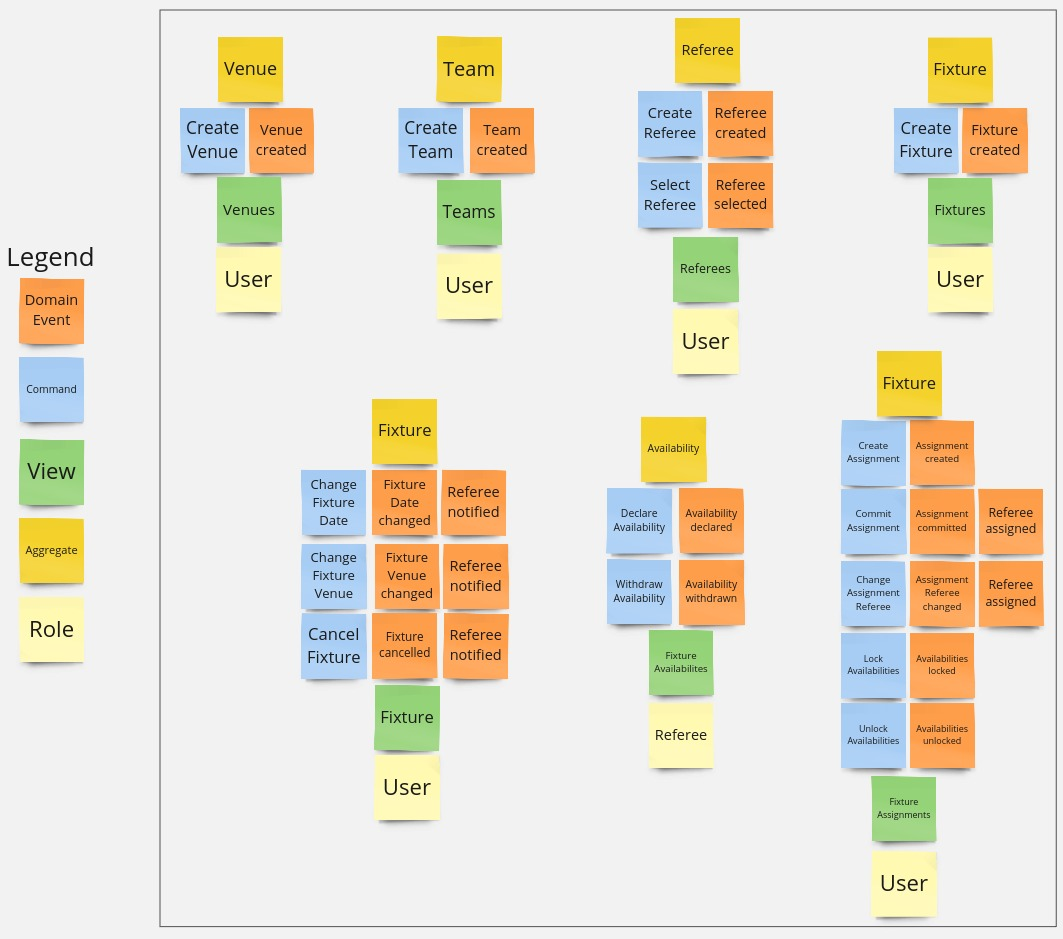
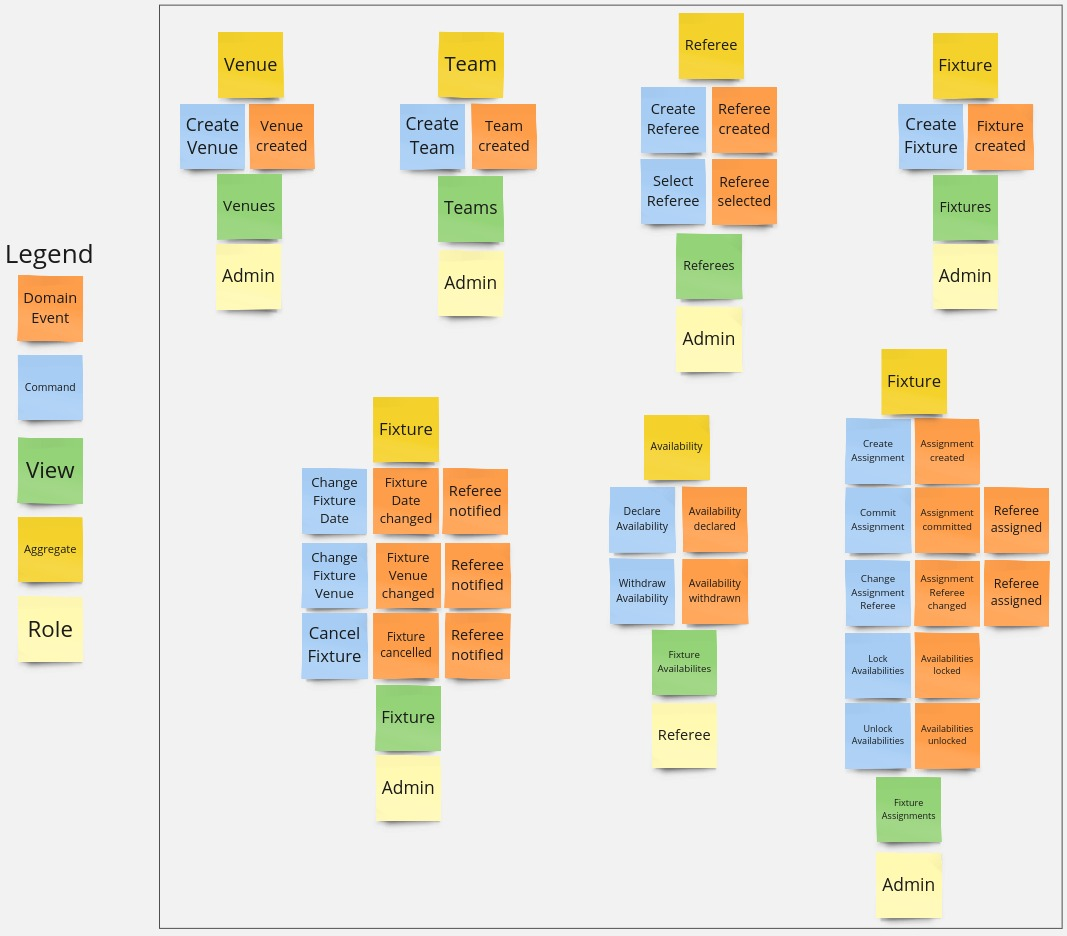
finalised Day1 and fixed some typos

diff --git a/reports/day1/README.md b/reports/day1/README.md
@@ -4,73 +4,69 @@ On Day 1 the focus is on explicitly stating my motivation, aims and objectives, 
 
 ## Motivation, Aims and Objectives
 
-In the following I clearly state my motivation, aims and objectives as they are important to understand to put the whole undertaking into a proper context that helps to understand certain decisions. 
+In the following I clearly state my motivation, aims and objectives as they are important to put the whole undertaking into a proper context that helps to understand certain decisions. 
 
-Very broadly speaking my most fundamental motivation underlying this undertaking is to simply get more experience in Rust. So far I have 6 months of industry experience in Rust at my time at Generation Lambda where I wrote a number of services such as simple REST services, a blockchain data extractor and a rewards payout tool for Cardano. With this project however, I want to look into a different direction: DDD and Microservices.
+Very broadly speaking my most fundamental motivation underlying this undertaking is to simply get more experience in Rust. So far I have 6 months of industry experience in Rust from my time at Generation Lambda where I wrote a number of services such as simple REST services, a blockchain data extractor and a rewards payout tool for Cardano. With this project however, I want to look into a different direction: DDD and Microservices. I have taught DDD and Microservices in my position as lecturer in Software Engineering to undergraduates and conducted Software Engineering seminars where students had to implement a project using DDD. However so far, I only had limited opportunity to explore DDD and Microservices in production, which should change now with this project. Yes, I am aware that this is not a proper industry setting, but its a good first step towards building up more experience.
 
-I have taught DDD and Microservices in my position as lecturer in Software Engineering to undergraduates and conducted Software Engineering seminars where students had to implement a project using DDD. However so far, I only had limited opportunity to explore DDD and Microservices in production: I have implemented a Volleyball referee management tool in Java using DDD following a monolithic approach, that was in production for a few years; I have implemented Service Oriented Architectures (SOA) in production but never got proper hands-on experience in implementing a proper Microservices Architecture - all of this should change now with this project. Yes, I am aware that this is not a proper industry setting, but its a good first step towards building up more experience.
-
-An important point here is to make that DDD is not a very hot topic in Rust, therefore Rust would definitely not be my first choice when having to implement a Domain using DDD and Microservices for production use - other ecosystems such as Java and C# have everything you need to do it much more easily with very mature frameworks and tools. In fact, I have around 10 years of industry experience in Java using JavaEE and Spring, which are frameworks that make implementation of (Micro)services using DDD rather easy.
-
-The point in using Rust is to put all these little challenges and learning opportunities into a box and grow from there, instead of relying on established languages and frameworks, which would make the whole undertaking rather boring.
+An important point here is to make that DDD is not a very hot topic in Rust, therefore Rust would definitely not be my first choice when having to implement a Domain using DDD and Microservices for production use - other ecosystems such as Java and C# have everything you need for it with very mature frameworks and tools. In fact, I have around 10 years of industry experience in Java using JavaEE and Spring, which are frameworks that make implementation of (Micro)services using DDD rather easy. The point in using Rust is to put all these little challenges and learning opportunities into a box and grow from there, instead of relying on established languages and frameworks, which would make the whole undertaking rather boring.
 
 Therefore this project pursues the following objectives:
 - Deepen my Rust experience.
-- Explore implementing tactical DDD in Rust - note that the focus is on Tactical, not Strategic DDD.
+- Explore implementing Tactical DDD in Rust - note that the focus is on Tactical, not Strategic DDD.
 - Explore implementing a Web UI via WASM in Rust.
 - Explore implementing Microservices in Rust. 
 
-My aim is to start with a monolith and then slice it into Microservices to avoid trying to do too many things at once, and overcomplicating things from the start. Also starting with a monolith is often the default and then slicing it out into Microservices is easier once the domain is properly established.
+My aim is to start with a Monolith and then slice it into Microservices to avoid trying to do too many things at once. Also, starting with a Monolith is often the default and then slicing it out into Microservices is easier once the domain is properly established.
 
-I want to make testing an important aspect of the whole project. I see automated tests as an essential part of every Software Engineering project and have to admit that I grew tired of bashing automated tests, something seen regularly on various social media channels. Writing no tests is as stupid as mindlessly writing tests just to cover your code as much as possible. With tests it is the same as with coding: you need to think and consider where tests bring a benefit and where they are just boilerplate/noise/liability. I am going to follow the well-known testing pyramid:
+I want to make testing an important aspect of the whole project. I see automated tests as an essential part of every Software Engineering project, however one has to be clever about it: writing no tests is as stupid as mindlessly writing tests just to cover your code as much as possible. With tests it is the same as with coding: you need to think and consider where tests bring a benefit and where they are just boilerplate/noise/liability. I am going to follow the well-known testing pyramid:
 - Unit tests only for complex domain and/or Controller logic.
 - Integration tests only for (complex) queries and for driving the implementation of the DB integration code.
-- I am going to try to rely more on E2E tests, and am curious how this is going to turn out. 
+- E2E tests for testing whole scenarios.
 
 ## Unknowns, open Questions and Hypotheses
 As in every such undertaking, a number of initial unknowns, open questions and hypotheses popped up in my head, which I brain-dumped here, to not lose keep track of them and to guide the whole undertaking.
 
-- How to interact with DB? Using sqlx or an ORM such as diesel or seaorm? 
-    - I tend towards sqlx as I have used diesel in the past and was not too impressed with it, as you run into limitations such as transaction handling and more complex queries pretty quickly when you do non-trivial things.
+- How to interact with DB? Using *sqlx* or an ORM such as *diesel* or *seaorm*? 
+    - I lean towards *sqlx* as I have used *diesel* in production and was not too impressed with it, as you run into limitations such as transaction handling and more complex queries pretty quickly when you do non-trivial things.
 - How to represent Entities, Value Objects, Aggregates, Domain Events (and how to broadcast them) and Repositories? 
-    - Aggrgate/Entity: probably is *mut* and methods implemented as *mut*.
+    - Aggregate/Entity: probably is *mut* and methods implemented as *mut*.
     - Value objects are immutable with immutable methods, returning copies.
 
 - An interesting challenge will be to update an Aggregate or Entity in the DB after some domain logic executed. A naive approach would be to update all fields and Entities/Value objects, but a more sophisticated approach could calculates a diff from the originally loaded version, but that is also more complex. Or could we follow a unit-of-work pattern implementation? How much effort and how difficult would that be in Rust?
 
-- How can we abstract Repositories without exposing the need for an sqlx Connection/Transaction object? We want to avoid passsing the sqlx connection to be able to write testable code. We could employ some form of per-thread global Connection/Transaction context. Or much simpler: instantiate the Repository in the REST handler using the Connection object but pass it as *dyn* to the Controller logic.
+- How can we abstract Repositories without exposing the need for an *sqlx* Connection/Transaction object? We want to avoid passing the *sqlx* connection to be able to write testable code. We could employ some form of per-thread global Connection/Transaction context. Or much simpler: instantiate the Repository in the REST handler using the Connection object but pass it as *dyn* to the Controller logic.
 
-- Should we use some form of dependency injection e.g. using https://docs.rs/shaku/latest/shaku/? 
+- Should we use some form of dependency injection e.g. using *shaku*? 
     - Given that Java / Spring relies heavily on dependency injection by declarative management via annotations, it would be interesting to see if this makes sense in Rust as well. 
-    - We might be able to declare transactional boundaries via our own Rust Attributes.
+    - We might be able to declare transactional boundaries via custom Rust Attributes.
     - However as nice as it sounds, given the fundamentally different nature of Rust, I doubt this is a viable direction to follow.
 
 - How do we deploy multiples of the same Microservices? 
-    - First thought is to use some reverse proxy, with first try going to be Nginx.
+    - Probably use a reverse proxy, such as Nginx.
 
-- How to best split into Microservices and how to communicate between them?
-    - The splitting depends heavily on the domain implementation - potentially splitting by Aggregates or even Entities. So we have to wait until these are clear and stable, which should be when the monolith implementation is finished.
-    - Fetching information shall be done by means of REST endpoints explosed by the respective service.
-    - Broadcasting and listening to Domain Events is done via Kafka. Build in idempotency to solve the problem of different transactional contexts between Kafka and postgres.
+- How to best split the initial Monolith into Microservices and how to communicate between them?
+    - The splitting depends heavily on the domain implementation - potentially splitting by Aggregates or even Entities. So we have to wait until these are clear and stable, which should be the case when the Monolith implementation is finished.
+    - Fetching information shall be done by means of REST endpoints exposed by the respective service.
+    - Broadcasting and listening to Domain Events is done via Kafka. Build in idempotency to solve the problem of different transactional contexts between Kafka and DB.
     - Use some form of log aggregation.
 
 ## Domain and Requirements
 
-### High-Level Domain Vision
+### High-Level Domain Description
 
-The idea is to implement a simple Volleyball referee management tool that allows for assigning of 1st and 2nd referees to Fixtures between two teams that are taking place at specific venues.
+The idea is to implement a simple Volleyball referee management tool that allows for assigning of 1st and 2nd referees to Fixtures between two Teams that are taking place at specific Venues.
 
-Referees declare their availabilty to Fixtures, and the admin is using these availabilities then to decide which referee to assign to which Fixture. Referees should also be able to withdraw availabilities but only until some time before the assignments are handed out. The admin should be able to lock availabilities, which has the consequence that referees are not able to declare or withdraw availabilities anymore, so that the admin can create assignments without concurrent changes to availabilities.
+Referees declare their availability to Fixtures, and the *Admin* is using these Availabilities then to decide which referee to assign to which Fixture. Referees should also be able to withdraw Availabilities but only until some limited time before the Assignments are handed out. The *Admin* should be able to lock Availabilities, which has the consequence that Referees are not able to declare or withdraw Availabilities anymore, so that the *Admin* can create assignments without concurrent changes to Availabilities.
 
-The assignment process should be a two-step one: first, the admin assigns referees which constitutes *staged* changes, that are not fixed yet. Then after the admin is happy with the assignments, they *commit* the assignments, making them fixed, nofifying the referees.
+The Assignment process should be a two-step one: first, the *Admin* assigns Referees which constitutes *staged* changes, that are not fixed yet. Then after the *Admin* is happy with the assignments, they *commit* the assignments, making them fixed, notifying the Referees.
 
-Fixtures can get cancelled as well as their time or venue changed, which requires some form of notification to the assigned referees.
+Fixtures can get cancelled, or their time or venue changed, which requires some form of notification to the assigned Referees or Referees that declared availability.
 
-It should be possible to replace assigned referees with other referees, with referees getting notifications accordingly. 
+It should be possible for the *Admin* to replace already assigned Referees with other Referees, with Referees getting notifications accordingly. 
 
-The tool should also allow the cration of referees, venues, teams and Fixtures. Note that in a proper industry-ready soultion this information is very likely coming from a different system that needs to be integrated, but for sake of simplicity, in this project we rely on a single data source.
+The tool should also allow the creation of Referees, Venues, Teams and Fixtures. Note that in a proper industry-ready solution this information is very likely coming from a different system that needs to be integrated, but for sake of simplicity, in this project we ignore this.
 
-Also in this tool there is no need for explicitly implementing *Users*, that is, no need for implementing any login functionality and/or roles. However the UI should allow to switch between the views of different referees.
+Also in this tool there is no need for explicitly implementing *Admins*, that is, no need for implementing any login functionality and/or roles. However the UI should allow to switch between the views of different Referees.
 
 ### Event Storming
 
@@ -80,54 +76,54 @@ I did a quick Event Storming to model the domain before fleshing out User Storie
 
 ### User Stories
 
-Yes, we shouldn't use *User* in User Stories and focus on more specific roles/personas, but given that there is no need for a login/user concept, we essentially have only 2 roles:
+We essentially have only 2 roles:
 
-1. *User* is the generic user that views the Web UI.
-2. *Referee* is the referee the generic user selected to work as.
+1. *Admin* is the generic user that views the Web UI, can create Referees, Teams, Venues, Fixtures and does the whole assignment process.
+2. *Referee* is the referee the Admin selected to work as, declares and withdraws Availabilities and gets notified in case of changes.
 
 #### Referee
 
-- **Create Referee.** As a User I want to be able to create new Referees, so that Referees can be managed.
-- **Get Referee by Id.** As a User I want to be able to get Referees by their Id, so that I can get information about them individually.
-- **Get all Referees.** As a User I want to get all Referees in the system, so that I can select the Referee I want to work as.
-- **Select Referee.** As a User I want to select the Referee I want to work with, so that I can declare and withdraw their availabilities.
+- **Create Referee.** As Admin I want to be able to create new Referees, so that Referees can be managed.
+- **Get Referee by Id.** As Admin I want to be able to get Referees by their Id, so that I can get information about them individually.
+- **Get all Referees.** As Admin I want to get all Referees in the system, so that I can select the Referee I want to work as.
+- **Select Referee.** As Admin I want to select the Referee I want to work with, so that I can declare and withdraw their availabilities.
 
 #### Team
 
-- **Create Team.** As a User I want to be able to create new Teams, so that I can use them to create Fixtures.
-- **Get Team by Id.** As a User I want to be able to get a Team by its Id, so that I can get information about it individually.
-- **Get all Teams.** As a User I want to be able get all Teams in the system, so that I can select Teams when creating Fixtures.
+- **Create Team.** As Admin I want to be able to create new Teams, so that I can use them to create Fixtures.
+- **Get Team by Id.** As Admin I want to be able to get a Team by its Id, so that I can get information about it individually.
+- **Get all Teams.** As Admin I want to be able get all Teams in the system, so that I can select Teams when creating Fixtures.
 
 #### Venue
 
-- **Create Venue.** As a User I want to be able to create new Venues, so that I can use them to create Fixtures.
-- **Get Venue by Id.** As a User I want to be able to get a Venue by its Id, so that I can get information about it individually.
-- **Get all Venues.** As a User I want to be able get all Venues in the system, so that I can select Venues when creating Fixtures.
+- **Create Venue.** As Admin I want to be able to create new Venues, so that I can use them to create Fixtures.
+- **Get Venue by Id.** As Admin I want to be able to get a Venue by its Id, so that I can get information about it individually.
+- **Get all Venues.** As Admin I want to be able get all Venues in the system, so that I can select Venues when creating Fixtures.
 
 #### Fixture
 
-- **Create Fixture.** As a User I want to be able to create new Fixtures, so that we have Fixtures in the System that reflect the scheduled real Fixtures.
-- **Get all Fixtures within time range.** As a User I want to be able to get all Fixtures within a time range, so that I can assign Referees to them.
-- **Get Fixture by Id.** As a User I want to be able to get a Fixture by its Id, so that I can get information about it individually.
-- **Change Date.** As a User I want to be able to change the date of a Fixture, so that the assigned Referees get notified.
-- **Change Venue.** As a User I want to be able to change the Venue of a Fixture, so that the assigned Referees get notified.
-- **Cancel Fixture.** As a User I want to be able to cancel a Fixture, so that the assigned Referees get notified.
+- **Create Fixture.** As Admin I want to be able to create new Fixtures, so that we have Fixtures in the System that reflect the scheduled real Fixtures.
+- **Get all Fixtures within time range.** As Admin I want to be able to get all Fixtures within a time range, so that I can assign Referees to them.
+- **Get Fixture by Id.** As Admin I want to be able to get a Fixture by its Id, so that I can get information about it individually.
+- **Change Date.** As Admin I want to be able to change the date of a Fixture, so that the assigned Referees get notified.
+- **Change Venue.** As Admin I want to be able to change the Venue of a Fixture, so that the assigned Referees get notified.
+- **Cancel Fixture.** As Admin I want to be able to cancel a Fixture, so that the assigned Referees get notified.
 
 #### Availability
 
-- **Declare Availability.** As a Referee I want to declare Availability to a given Fixture, so that the admin knows for which Fixture I am available and which not.
+- **Declare Availability.** As a Referee I want to declare Availability to a given Fixture, so that the Admin knows for which Fixture I am available and which not.
 - **Withdraw Availability.** As a Referee I want to be able to withdraw a previously declared Availability, so that I am flexible with declaring my Availabilities.
-- **Lock Availabilities.** As a User I want to lock Availabilities, so that Referees are not able to concurrently change them while I am working on Assignments.
-- **Unlock Availabilities.** As a User I want to unlock Availabilities after I have locked them, so that Referees can declare or withdraw their Availabilities again.
+- **Lock Availabilities.** As Admin I want to lock Availabilities, so that Referees are not able to concurrently change them while I am working on Assignments.
+- **Unlock Availabilities.** As Admin I want to unlock Availabilities after I have locked them, so that Referees can declare or withdraw their Availabilities again.
 
 #### Assignment
 
-- **Create Assignment.** As a User I want to create an Assignment, so that a Fixture has Referees.
-- **Commit Assignment.** As a User I want to commit an Assignment, so Referees are notifies of their assignment.
-- **Change Referee.** As a User I want to be able to change Referees of an Assignment, so that I have the flexibility in case of some changes.
+- **Create Assignment.** As Admin I want to create an Assignment, so that a Fixture has Referees.
+- **Commit Assignment.** As Admin I want to commit an Assignment, so Referees are notified of their assignment.
+- **Change Referee.** As Admin I want to be able to change Referees of an Assignment, so that I have the flexibility in case of some changes.
 
-### Domain Diagram
+### Domain Model Diagram
 
-Below I have added a Diagram of the Domain to show all Domain concepts and their relationships. Note that it is an initial design that serves only as starting point and might differ from the final implementation. The diagram was created using draw.io
+Below I have added a Diagram of the Domain Model to show all Domain concepts and their relationships. Note that it is an initial design that serves only as starting point and might differ from the final implementation. The diagram was created using draw.io
 
 ![Volleyball Referee Management Domain](referee_domain_rust_ddd.png "Volleyball Referee Management Domain")

diff --git a/README.md b/README.md
@@ -1,23 +1,23 @@
 # Exploring DDD and Microservices in Rust
 
-This repo explores the use of Rust for implementing DDD and Microservices on top of a simple web UI in Rust with WASM. Also with this project I am  exploring the use of LLMs in my coding for the first time.
+This repo explores the use of Rust for implementing DDD and Microservices on top of a simple web UI in Rust with WASM. 
 
-The Domain which I use as example is a simple Volleyball referee management tool, as I am very familiar with this domain. I have been Volleyball referee for many years in the past, as well as implemented a (much more complex) tool in Java (also following DDD) for the Vorarlberg Volleyball Association, which I used in production during my tenure as Volleyball referee manager of Vorarlberg.
+The Domain which I use as example is a simple Volleyball referee management tool, as I am very familiar with this domain. I have been Volleyball referee for many years in the past, as well as implemented a (much more complex) tool in Java (also following DDD) for the Vorarlberg Volleyball Association, which I used in production during my tenure as Volleyball referee manager of Vorarlberg. The existing tool in Java essentially implements the same Domain but is technically different (Monolith, integration with an existing system).
 
-UI wise, I am using Leptos, due to it being rather close to React which I have some experience in. Also, I was quite impressed by it when I worked through the documentation. 
+UI wise, I am using Leptos, due to it being rather close to React which I have some experience in.
 
 Architectural wise, I start simple with a monolith architecture and then transition it into  Microservices. 
 
-The LLMs used were Copilot in VSCode and Cursor.
+Note that in the implementation of this project I have used LLMs in my coding for the first time, where I focused on the use of Copilot in VSCode, Cursor and ChatGPT.
 
 # Progress Reports
-I have written daily markdown entries in this repo which reflect on and report the progress.
+I have written daily markdown entries to reflect on and report the progress.
 
 ## [Day 1](reports/day1/README.md)
-Covers the Domain and requirements:
+
 - Motivation, Aim & Objectives
-- Unknowns, Open questions and Hypotheses
-- High Level Vision
+- Unknowns, open Questions and Hypotheses
+- High-Level Domain Description
 - Event Storming
-- Use Cases
-- UML Diagram
+- User Stories
+- Domain Model Diagram
